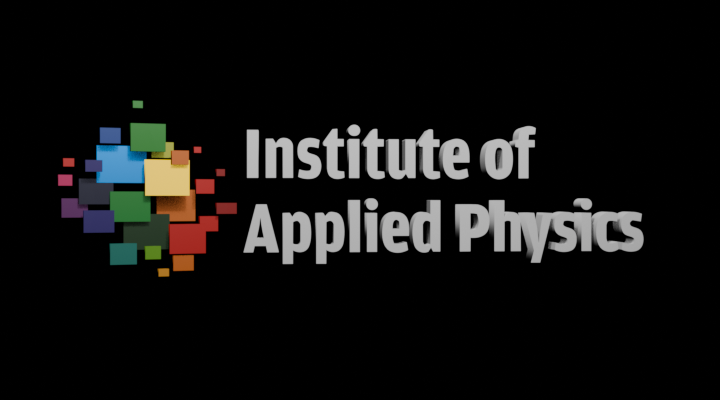
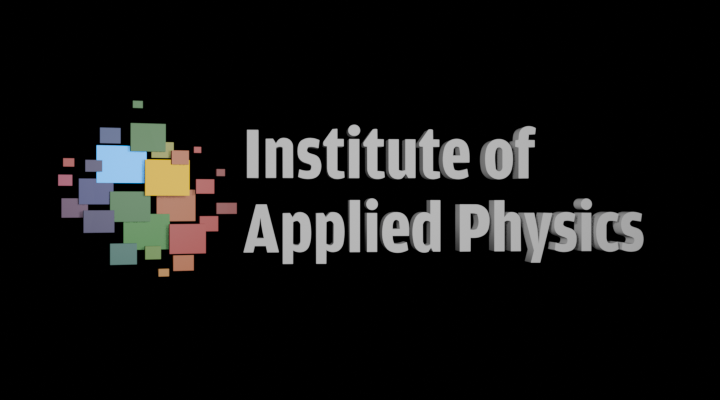
Colors corrected CD 250 nm

diff --git a/IAP_perspectives/rainbow_grattings_generator.py b/IAP_perspectives/rainbow_grattings_generator.py
@@ -152,7 +152,7 @@ MACRO_PIXEL_PITCH_UM = 60.0
 # renders (e.g. 720x400) are NOT squashed into a square grid.
 # Example: a 720x400 source image (aspect 1.8:1) with
 # NUM_MACRO_PIXELS_X = 36 gives NUM_MACRO_PIXELS_Y = 20 (36/1.8 = 20).
-NUM_MACRO_PIXELS_X = 250
+NUM_MACRO_PIXELS_X = 720
 
 # Minimum fabricable grating line width (micrometers). Any pixel whose
 # duty_cycle * period_um would produce a thinner line than this is skipped
@@ -164,13 +164,13 @@ NUM_MACRO_PIXELS_X = 250
 # resolution -- e.g. if you end up on the 1.5 um DMD/UV tool discussed in
 # the project notes, you'd want this closer to 1.5 um (and likely also
 # revisit the grating period itself, see fabrication summary caveats).
-MIN_LINE_WIDTH_UM = 0.1
+MIN_LINE_WIDTH_UM = 0.200
 
 # Whether to convert pixel values from sRGB (gamma-encoded -- what PNGs,
 # including Blender renders, normally store) to linear light before treating
 # them as I/I0 in the duty cycle formula. Physically more correct; set to
 # False to use the raw sRGB values directly instead.
-LINEARIZE_SRGB = True
+LINEARIZE_SRGB = False
 
 # Output table path.
 OUTPUT_CSV_PATH = "rainbow_hologram_layer_table.csv"
